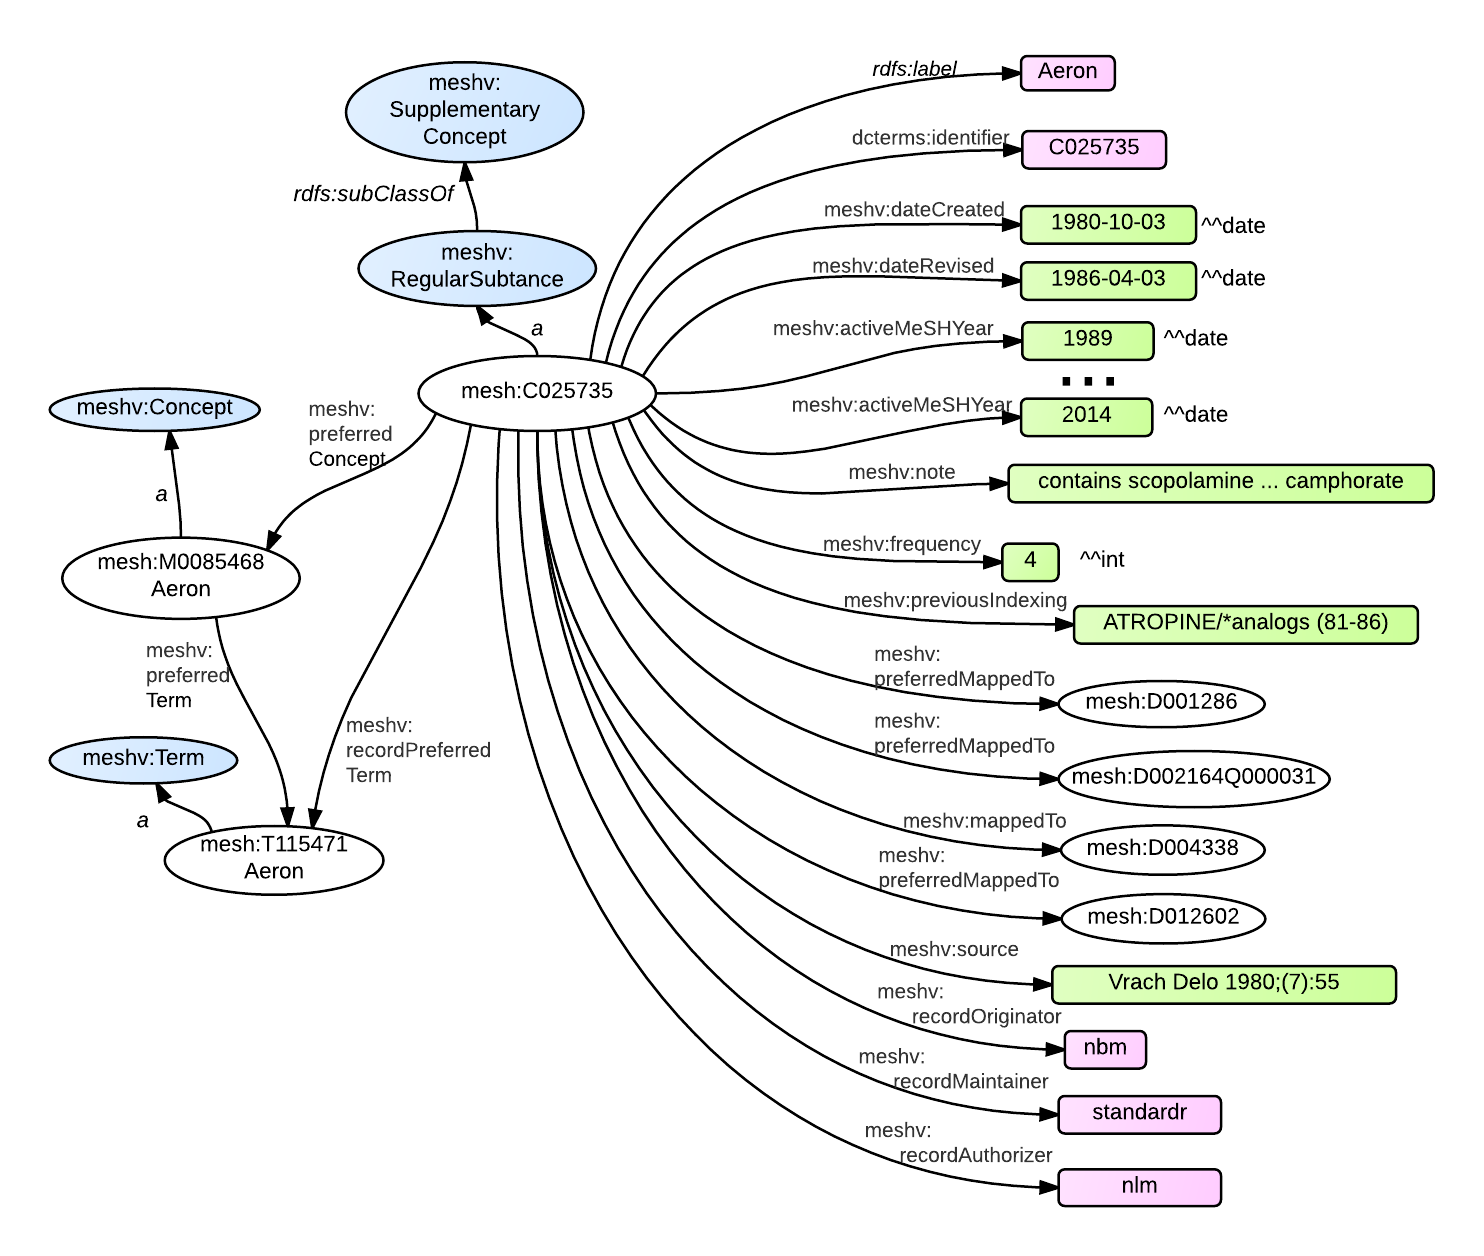
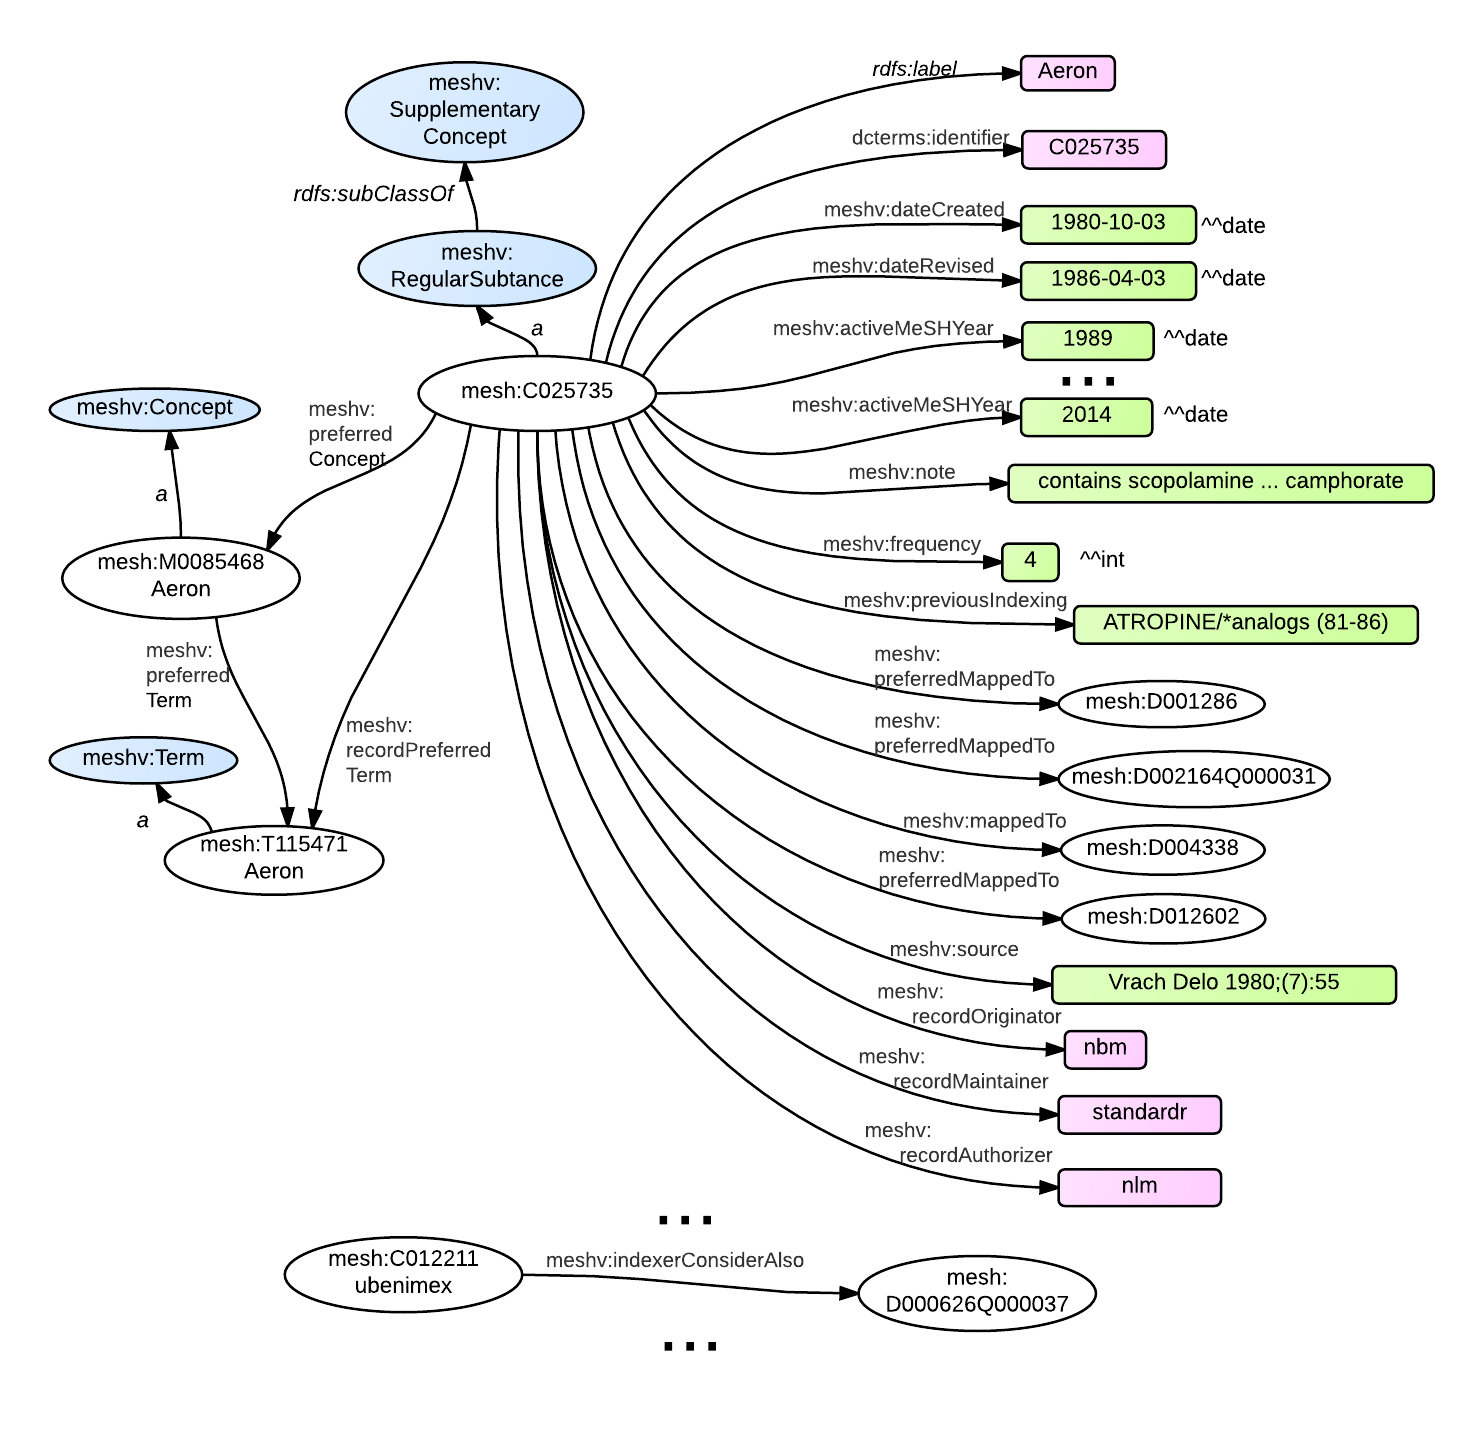
Add indexing data relations for #16

Changed region(s): [[0.031, 0.0311, 0.9919, 0.9626], [0.186, 0.8694, 0.558, 0.9315], [0.496, 0.7452, 0.527, 0.7763]]

diff --git a/scrs.md b/scrs.md
@@ -31,6 +31,8 @@ construct {
     mesh:C025735 meshv:recordPreferredTerm ?prefTerm .
     ?prefTerm a ?prefTermType .
     ?prefCon ?pct ?prefTerm .
+
+    mesh:C012211 meshv:indexerConsiderAlso ?ica .
 }
 from <http://id.nlm.nih.gov/mesh2014>
 where {
@@ -42,6 +44,8 @@ where {
     mesh:C025735 meshv:recordPreferredTerm ?prefTerm .
     ?prefTerm a ?prefTermType .
     ?prefCon ?pct ?prefTerm .
+
+    mesh:C012211 meshv:indexerConsiderAlso ?ica .
 }
 ```
 
@@ -80,6 +84,8 @@ mesh:C025735  rdfs:label  "Aeron" ;
 mesh:M0085468 rdf:type  meshv:Concept ;
               meshv:preferredTerm mesh:T115471 .
 mesh:T115471  rdf:type  meshv:Term .
+
+mesh:C012211  meshv:indexerConsiderAlso mesh:D000626Q000037 .
 ```
 
 ### MeSH XML
